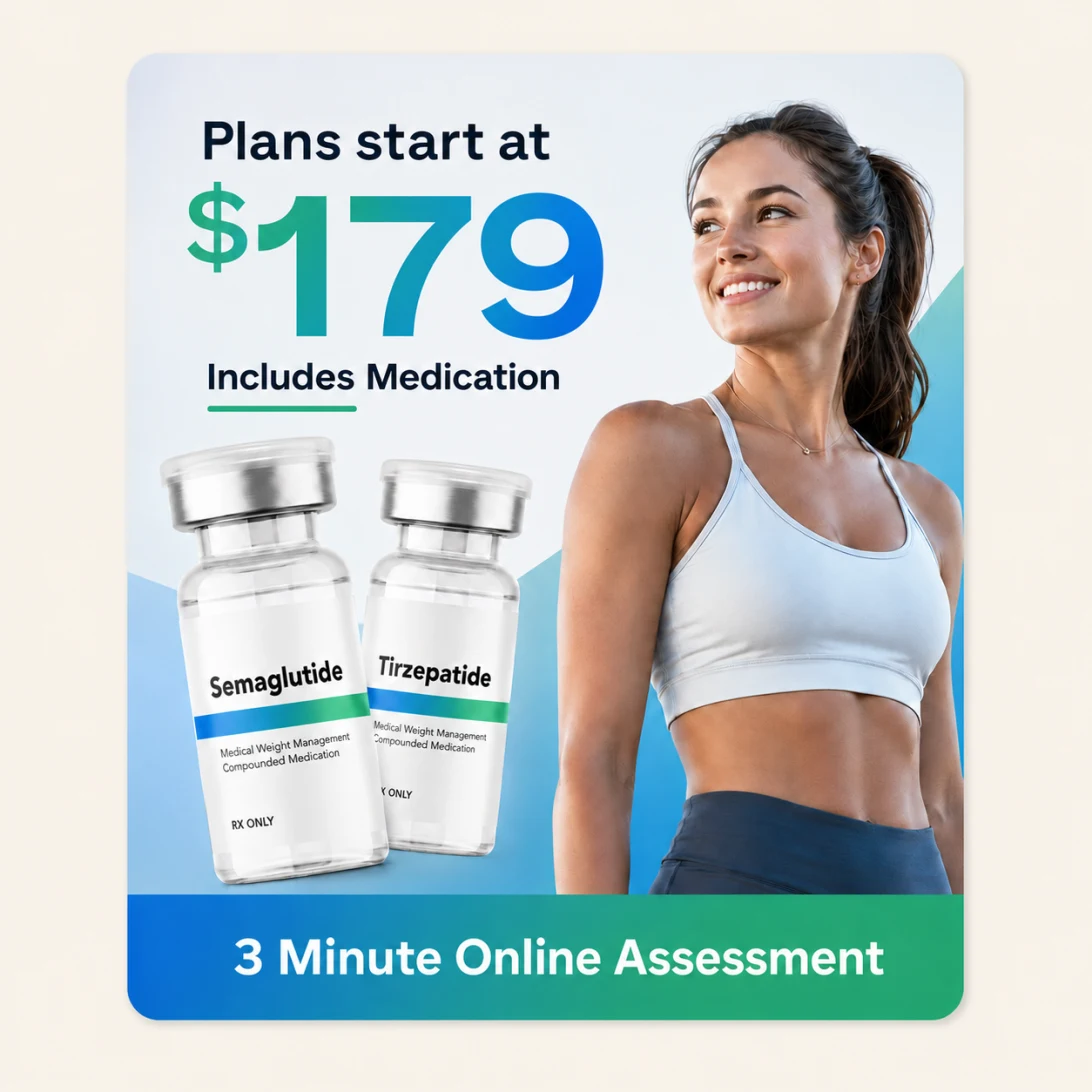
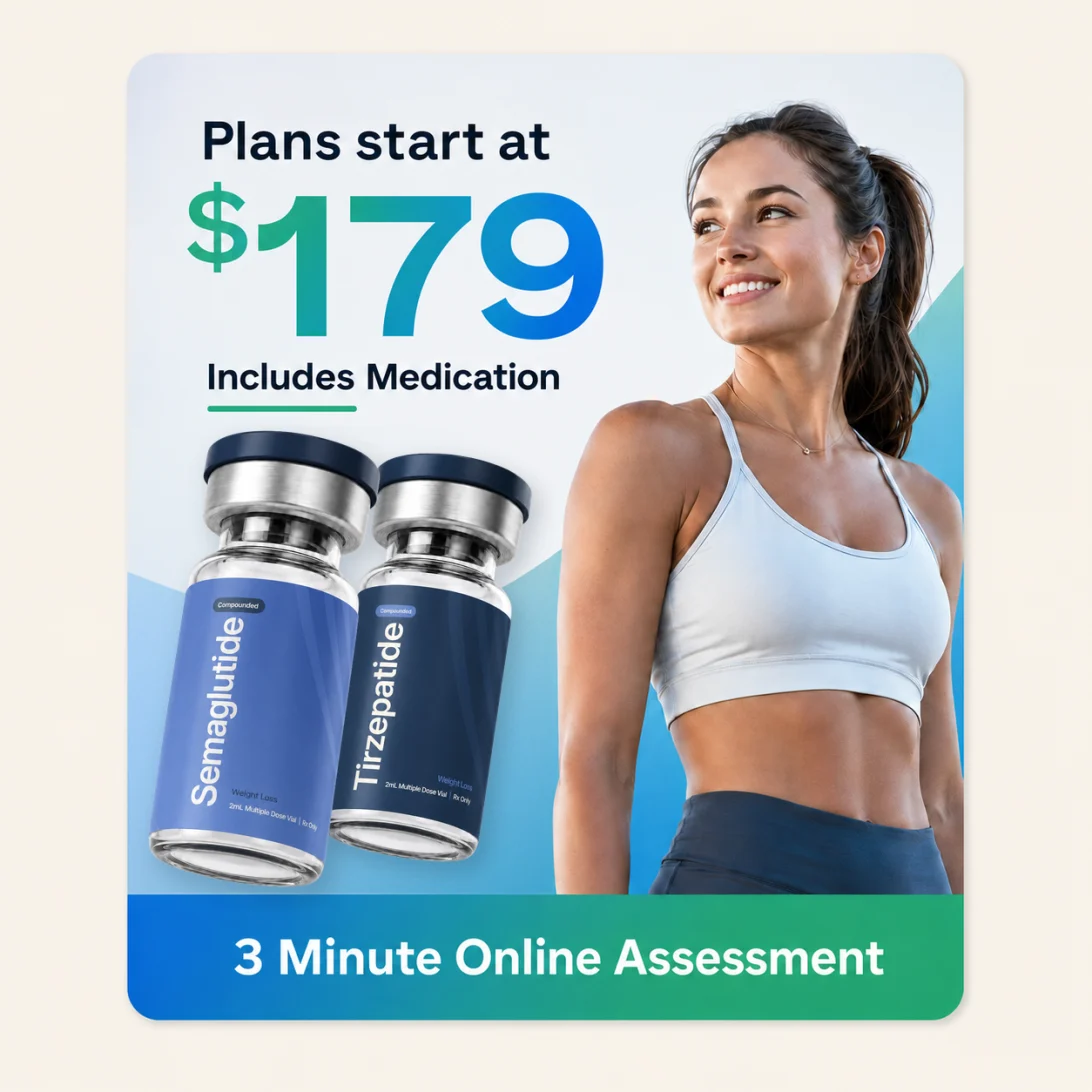
chime-weight-loss-lp: Chime vials in place of Aspen's (Luis, 2026-09-23: "change vials for chime vials"). Their Semaglutide / Tirzepatide vials are painted out of the hero art and the 3-tile product thumbnail (the background behind them rebuilt from a colour model fitted to the surrounding gradient,

Changed region(s): [[0.1245, 0.3736, 0.4982, 0.8407]]

diff --git a/chime-weight-loss-lp/index.html b/chime-weight-loss-lp/index.html
@@ -31,16 +31,19 @@
            certificate and linked to a check of startaspen.com)
          · Privacy / Telehealth → Chime's own legal pages
          · Every CTA → ../chimeAssessment.html (theirs: /intake/weight-loss?v=2). One constant in js/lp.js.
+         · Their Semaglutide / Tirzepatide vials → Chime's vials, in the hero art and the 3-tile product
+           thumbnail (Luis, 2026-09-23). The rest of both images is theirs; repainted by
+           uploads/weight-loss-lp-ref/vials.py (untracked).
          REMOVED: Google Analytics, Microsoft Clarity, Facebook domain verification (Aspen's).
 
          KEPT AS IS, flagged for the copy team, NOT Chime's:
-         · the hero image is Aspen's ad creative: "$179 Includes Medication" is their price
+         · the hero image is Aspen's ad creative (only the vials are Chime's): "$179 Includes Medication" is their price
          · the "Excellent 4.8 · 1,000s of happy customers" Trustpilot badge is their rating
          · the $179 in the description / alt text, and every line of copy -->
     <link rel="icon" type="image/png" href="images/favicon.png" />
     <link rel="apple-touch-icon" href="images/favicon.png" />
     <link rel="preload" href="fonts/plus-jakarta-sans-latin.woff2" as="font" type="font/woff2" crossorigin />
-    <link rel="stylesheet" href="css/lp.css?v=20260958" />
+    <link rel="stylesheet" href="css/lp.css?v=20260961" />
   </head>
   <body>
     <div id="root">
@@ -59,9 +62,9 @@
           </header>
           <section id="hero" class="relative overflow-hidden" data-screen-label="Hero">
             <div class="mx-auto -mt-[15px] flex max-w-6xl flex-col items-center px-6 py-14 text-center md:px-8 md:py-20">
-              <img id="lp-hero-img" alt="Weight loss plans starting at $179 — includes medication (semaglutide &amp; tirzepatide). 3-minute online assessment." class="-mt-[20px] w-full max-w-[546px] object-contain" src="images/hero-offer.webp" width="1092" height="1092" fetchpriority="high" />
+              <img id="lp-hero-img" alt="Weight loss plans starting at $179 — includes medication (semaglutide &amp; tirzepatide). 3-minute online assessment." class="-mt-[20px] w-full max-w-[546px] object-contain" src="images/hero-offer.webp?v=20260961" width="1092" height="1092" fetchpriority="high" />
               <div class="mt-8 flex w-full max-w-[546px] items-center justify-between gap-4">
-                <img alt="Tirzepatide and semaglutide vials with a GLP-1 injection pen." class="h-16 w-auto object-contain" src="images/mini-product.webp" width="288" height="192" />
+                <img alt="Tirzepatide and semaglutide vials with a GLP-1 injection pen." class="h-16 w-auto object-contain" src="images/mini-product.webp?v=20260961" width="288" height="192" />
                 <span id="lp-hero-cta" class="inline-flex">
                   <button type="button" data-cta="quiz" class="inline-flex h-14 cursor-pointer items-center justify-center gap-2 rounded-full px-9 text-[16px] font-semibold text-white transition-transform hover:-translate-y-0.5" style="background-color: var(--lp-brand);">Get approved now<svg xmlns="http://www.w3.org/2000/svg" width="24" height="24" viewBox="0 0 24 24" fill="none" stroke="currentColor" stroke-width="2" stroke-linecap="round" stroke-linejoin="round" class="lucide lucide-arrow-right h-4 w-4" aria-hidden="true"><path d="M5 12h14"></path><path d="m12 5 7 7-7 7"></path></svg></button>
                 </span>
@@ -132,6 +135,6 @@
         </div>
       </div>
     </div>
-    <script src="js/lp.js?v=20260958"></script>
+    <script src="js/lp.js?v=20260961"></script>
   </body>
 </html>

diff --git a/chime-weight-loss-lp/js/lp-tests.js b/chime-weight-loss-lp/js/lp-tests.js
@@ -73,6 +73,9 @@ page.replace(/(?:src|href)="([^"#?]+)(?:\?[^"]*)?"/g, function (_, u) { refs.pus
 css.replace(/url\(([^)]+)\)/g, function (_, u) { refs.push(path.join("css", u)); });
 refs.forEach(function (u) { eq(fs.existsSync(path.join(DIR, u)), true, "asset exists: " + u); });
 
+// Chime vials repainted into both images; cache-busted so nobody keeps seeing Aspen's
+eq(/src="images\/hero-offer\.webp\?v=\d+"/.test(page) && /src="images\/mini-product\.webp\?v=\d+"/.test(page), true, "vial-swapped images carry ?v=");
+
 // One ?v= across the page
 var vs = {};
 page.replace(/\?v=(\d+)/g, function (_, v) { vs[v] = 1; });

diff --git a/README.md b/README.md
@@ -67,7 +67,7 @@ The homepage is `index.html`. Pages:
 | `/chime-belly-first-reset_ind/` | The Belly-First Reset (GLP-1 + tesamorelin) quiz landing, **sister of `chime-metabolic-reset_ind/`** in its own folder (client, 2026-09-21: a clone with the copy of "Indian LP - Tesa.pdf", untracked). Same format, carousel, clinician and shared photos; what differs: program name + Target Vial (tesamorelin), every copy block, the result slide (35 in / 31 in and 15-18% tiles, a CSS belt line whose markers slide from the standard chart's 40 / 35 to 35 / 31, the torso cross-section illustration with HTML keys, belly-first first in the chip), mirror / waistband bridge photo, kurta-at-a-gathering benefits photo, GLP-1 + Tesamorelin vial shot with the two-jobs SVG diagram, tape-measure step icon, 6 benefits, 8 FAQs, **price $[TBD]**, tesamorelin off-label footnote + footer sentence, storage key `chime:belly-first-reset`. Folder README lists the deltas and the launch blockers (off-label tesamorelin language = counsel critical path, price, dosing and monitoring protocols, citations). `noindex`. `node chime-belly-first-reset_ind/js/reset-quiz-tests.js` (106 checks) |
 | `/chime-price-lock-offer/` | **GLP-1 price-lock offer, a clone of trimrx.com/glp1/offer-v50** (opened from the client's `?catalog=price-lock` link; client, 2026-09-23, the third of "need clones of these just logo and branding switched"; Luis: change ONLY what the client asked for, keep everything else, ask before any other change). Its own folder. Built from the reference itself: Framer's server-rendered markup (both breakpoint variants, classes untouched; CSS picks one at 1200px) and its own inline CSS pruned with PurgeCSS (93 KB to 42 KB), plus its button hover colours, which Framer switched by script and are ported as CSS `:hover` rules (measured on the live page). No JavaScript: the phone-only pinned CTA is CSS. The Framer runtime and every tracker are removed (FigPii, Everflow affiliate clicks, Framer events, Bing, GTM, the Trustpilot bootstrap). Verified by diffing every element's geometry, font and colour against the live page at 1440 and 390: identical (only two SVG `<use>` boxes are off by half a pixel), plus a Playwright WebKit iPhone pass (same height as the reference, pinned CTA, taps open the assessment). **Changed (branding only):** title, favicon, every CTA → `chimeAssessment.html` (new tab, as theirs), Safety Information → `#`. Their page has no logo, so none was added (Luis's pick). **Kept as the reference has it:** copy, navy / red, the flag, the "State Licensed Pharmacy" seal, the 0–250 bar, the unbranded vials, and **$174 / $279**, the prices the price-lock link shows (their page's built-in default is $149 / $249). Reference + `build.py` untracked in `uploads/price-lock-offer-ref/`. `noindex` - ?v=20260960. `node chime-price-lock-offer/js/offer-tests.js` (57 checks) |
 | `/chime-get-started-weight-loss/` | **GLP-1 get-started landing, a clone of wellmedr.com/pages/get-started-weight-loss** (client, 2026-09-23, the second of "need clones of these just logo and branding switched"; Luis: change ONLY what the client asked for, keep everything else, ask before any other change, keep the gold). Its own folder. Built from the reference itself: the rendered Shopify / PageFly markup with classes untouched, every stylesheet it loaded concatenated in document order and pruned with PurgeCSS (310 KB to 43 KB; the Assistant @font-face is re-added by hand because it is only referenced through a CSS variable PurgeCSS cannot see), and its two inline scripts verbatim (steps timeline, FAQ). Shopify, the cart drawer, slick and every tracker removed. Verified by diffing every element's geometry, font and colour against the live page: identical at 390 except the renamed text and the unlinked seals, and at 1440 the only other change is the height the longer name adds to one disclaimer (+15px). **Changed (branding only):** logos (Chime stacked logo in the reference's own logo canvases), the brand name in copy / alt / legal (18 places), the Chime wordmark repainted into their raster art (the gold "Weight Loss Warranty" seal ×3 including the hero art, the delivery van, the doctor's coat) by `uploads/get-started-wl-ref/brand_edit.py`, LegitScript → Chime's mark, phone → `1-XXX-XXX-XXXX` placeholder, CTAs → `chimeAssessment.html`, footer / legal links → Chime's pages (GLP-1 Safety Information → `#`). **Kept as the reference has it:** gold + navy, all prices and offers, the Trustpilot award, the 18 before/after photos, the Ozempic / Zepbound brand cards, the journal logos, and its sideways scroll at desktop. Capture + build scripts untracked in `uploads/get-started-wl-ref/`. `noindex` - ?v=20260959. `node chime-get-started-weight-loss/js/lander-tests.js` (151 checks) |
-| `/chime-weight-loss-lp/` | **Weight-loss pre-quiz landing, a clone of startaspen.com/lp/weight-loss2** (client, 2026-09-23: "need clones of these just logo and branding switched"; Luis: keep ALL the elements, as close to the original as possible so the team can study the funnel, the copy team rewrites the words later). Its own folder: `index.html` + `css/lp.css` + `js/lp.js` + `js/lp-tests.js` + `images/` + `fonts/`. The markup, Tailwind classes and copy are the reference's rendered React output, and the stylesheet is **their compiled Tailwind v4 sheet pruned with PurgeCSS** (200 KB down to 24 KB; PurgeCSS drops `:where()` utilities, so `space-y-4` was restored by hand). React is replaced by vanilla JS ported from their source: the 4-step quiz (±16px slide, 0.28s), the "Great News!" reveal plus a smooth scroll 60ms later, and the phone-only sticky "Get approved now" button. Verified by diffing the geometry and computed fonts of every element against the live reference at 1440 and 390, including the completed-quiz state: identical except the logo. **Changed (branding only):** Aspen logo → `logo-slate.png` in the same footprint, Aspen green → Chime blue-800 through the `--lp-brand*` / `--primary` / `--secondary` variables at the bottom of `lp.css` (their values are noted beside each one), title, favicon, the LegitScript seal (theirs is Aspen's certificate), the Privacy / Telehealth links, and every CTA → `../chimeAssessment.html` (theirs is `/intake/weight-loss?v=2`, one constant in `lp.js`). Their GA, Clarity and Facebook tags were removed. The fonts are the reference's own Plus Jakarta Sans + Lora (OFL), self-hosted. **Still theirs, flagged:** the hero image is Aspen's ad creative with "$179 Includes Medication" baked in, and the "Excellent 4.8" Trustpilot badge is their rating. The reference is saved untracked in `uploads/weight-loss-lp-ref/`. `noindex` - ?v=20260958. `node chime-weight-loss-lp/js/lp-tests.js` (51 checks) |
+| `/chime-weight-loss-lp/` | **Weight-loss pre-quiz landing, a clone of startaspen.com/lp/weight-loss2** (client, 2026-09-23: "need clones of these just logo and branding switched"; Luis: keep ALL the elements, as close to the original as possible so the team can study the funnel, the copy team rewrites the words later). Its own folder: `index.html` + `css/lp.css` + `js/lp.js` + `js/lp-tests.js` + `images/` + `fonts/`. The markup, Tailwind classes and copy are the reference's rendered React output, and the stylesheet is **their compiled Tailwind v4 sheet pruned with PurgeCSS** (200 KB down to 24 KB; PurgeCSS drops `:where()` utilities, so `space-y-4` was restored by hand). React is replaced by vanilla JS ported from their source: the 4-step quiz (±16px slide, 0.28s), the "Great News!" reveal plus a smooth scroll 60ms later, and the phone-only sticky "Get approved now" button. Verified by diffing the geometry and computed fonts of every element against the live reference at 1440 and 390, including the completed-quiz state: identical except the logo. **Changed (branding only):** Aspen logo → `logo-slate.png` in the same footprint, Aspen green → Chime blue-800 through the `--lp-brand*` / `--primary` / `--secondary` variables at the bottom of `lp.css` (their values are noted beside each one), title, favicon, the LegitScript seal (theirs is Aspen's certificate), the Privacy / Telehealth links, and every CTA → `../chimeAssessment.html` (theirs is `/intake/weight-loss?v=2`, one constant in `lp.js`). Their GA, Clarity and Facebook tags were removed. The fonts are the reference's own Plus Jakarta Sans + Lora (OFL), self-hosted. **Vials → Chime's (2026-09-23, Luis):** their Semaglutide / Tirzepatide vials in the hero art and the product thumbnail are repainted with Chime's (`uploads/weight-loss-lp-ref/vials.py`, background rebuilt from the surrounding gradient); ?v=20260961, images cache-busted too. **Still theirs, flagged:** the rest of the hero image is Aspen's ad creative with "$179 Includes Medication" baked in, and the "Excellent 4.8" Trustpilot badge is their rating. The reference is saved untracked in `uploads/weight-loss-lp-ref/`. `noindex` - ?v=20260961. `node chime-weight-loss-lp/js/lp-tests.js` (52 checks) |
 | `/chime-weight-loss-program-v2/` | **V2 of the weight loss program page: the reference's own design and copy** (client, 2026-09-22: "another version, no changes from original, pure as the base, use screenshot and files to rip off"; Luis picked design AND copy verbatim, in its own folder, V1 untouched). Every design value was measured with `getComputedStyle` on the saved reference and written into `css/v2.css`: #5921CF purple, #219F63 result cards with the figure in a serif, #F5F5F6 bands, 1156px column, 48/60 h1 and 28/36 h2 at weight 670 with -0.56px tracking. Its copy is verbatim, including the hero bullets, the journey steps, the comparison table, the reviews and all 15 FAQ answers. FOUR deliberate departures, each locked by a test: the source company's name and logo (publishing them would impersonate a real business), the brand drug names and their "FDA approved" seals (Novo/Lilly marks, untrue of compounded product), the roster of ~100 real named clinicians (fictional names instead), and the Trustpilot rating (LegitScript instead, since a 4.5 for Chime would be fabricated). No licensed font is shipped: the reference's own fallback chains are used. **Nothing commercial on the page is Chime's** and it cannot take traffic as written: the $59/mo care subscription, the $149 to $1,086 ladder, the with/without insurance toggle and the whole FAQ are the source's terms. One added footer line says so. `noindex`. **Round 2 (2026-09-22):** rebuilt on the reference's weight.html capture: hero with rating line, $59 care price + medication pill, three icon bullets, filled + outlined button pair and a square product panel; product carousel with New / High dose badges, a from price and Get started / Learn more on each card; the results band, the filter chips / insurance toggle and the app band are gone because that capture has none. - ?v=20260957. `node chime-weight-loss-program-v2/js/v2-tests.js` (114 checks) |
 | `/weight-loss-program-original/` | **The saved reference page as published, logo removed, for client design testing** (Luis, 2026-09-22). Copied from the browser save that was served on :8799; all original images (`img/`, ~122MB, mapped by `offline-images.js`) and the page's own Next.js bundles kept. Removed: the header and footer logo (CSS `display:none`, since React re-renders them), favicons, and every tracker (Segment, Braze, Crazy Egg, Bing UET + beacon, AdWords, Extole, tvScientific, Stripe metrics). A CSP meta limits all loads to `self`, so the page makes NO request to the reference site or any tracker (its licensed web fonts and one lazy CDN chunk are blocked by that and fall back). Fixed an infinite MutationObserver loop in `offline-images.js` (it rewrote `srcset` unconditionally), which froze browsers. The app drops the FAQ section after load (its module needs a source-CDN chunk), so `faq-restore.js` snapshots the server-rendered FAQ before boot and re-inserts it after the reviews, with its accordion wired to the original CSS. The hero photo still carries the source's program badge. `noindex`. Nav links and CTAs still point at the source site. |
 | `/chime-weight-loss-program/` | **Online weight loss program landing** (client, 2026-09-22: "rip this: sesamecare.com/service/online-weight-loss-program"; Luis: "rip it with chime information and look and feel"). The reference's layout section for section, in Chime's own look (self-hosted Quicksand, blue-800 ink, warm sand grounds, blue-500 accent, 16px cards): hero with three tick bullets, a results timeline (5 / 10 / 15% at 3 / 6 / 12 months, cited), a **treatment explorer** with filter chips, a 3-month vs month-to-month price select and an expandable detail panel per card, the five-step journey, an includes mosaic, the clinician block, a nine-row comparison table, reviews and ten FAQs. Self-contained: one stylesheet, one script, no framework, no CDN, no Google Fonts. The reference's Cloudflare blocks scraping, so Luis saved the page from his own browser to `uploads/` (**never commit that copy**); the capture notes are in `SESAME-WEIGHT-LOSS-RIP-PLAN.md`. Dropped on purpose: every brand drug name and its "FDA approved" seal, the whole insurance frame, the provider roster, the app band, Trustpilot. Flagged stand-ins: the care subscription price is a visible `$[TBD]`, the results and per-product figures carry `[CITATION TO CONFIRM]` / `[TO CONFIRM]`, the billing / refund / HSA / labs FAQ answers are `[CLIENT TO CONFIRM]`, the clinician (Dr. Ryan Calder) and the reviews are fictional. Photography is this page's own cast (Luis, 2026-09-22: "use white people assets"), sourced from assets already in the repo rather than borrowed from the `_ind` landings; the includes mosaic was rebuilt after a first pass cropped faces badly. Ground is clean white plus #f5f5f7 bands (Luis: "clean white with apple feel not the pale blue background"), no tinted panels. `noindex` - ?v=20260956. `node chime-weight-loss-program/js/wlp-tests.js` (159 checks) |

diff --git a/chime-weight-loss-lp/README.md b/chime-weight-loss-lp/README.md
@@ -16,7 +16,12 @@ team rewrites the words later.
 **To change the brand colour:** edit the `--lp-brand*`, `--primary` and `--secondary` variables in
 the brand layer. Aspen's original values are noted beside each one.
 
-**Still the reference's, and not Chime's:** the hero image (Aspen's ad, "$179 Includes
+**Chime's vials (2026-09-23):** Aspen's Semaglutide / Tirzepatide vials in the hero image and the 3-tile
+product thumbnail are replaced with Chime's vials (`uploads/vials`). The background behind them was
+rebuilt from the surrounding gradient and the rest of both images is untouched. The script is
+`uploads/weight-loss-lp-ref/vials.py` (untracked), next to their original PNGs.
+
+**Still the reference's, and not Chime's:** the rest of the hero image (Aspen's ad, "$179 Includes
 Medication"), the "Excellent 4.8" Trustpilot badge, and all of the copy.
 
 The reference material (rendered HTML, their full stylesheet, the component source and
